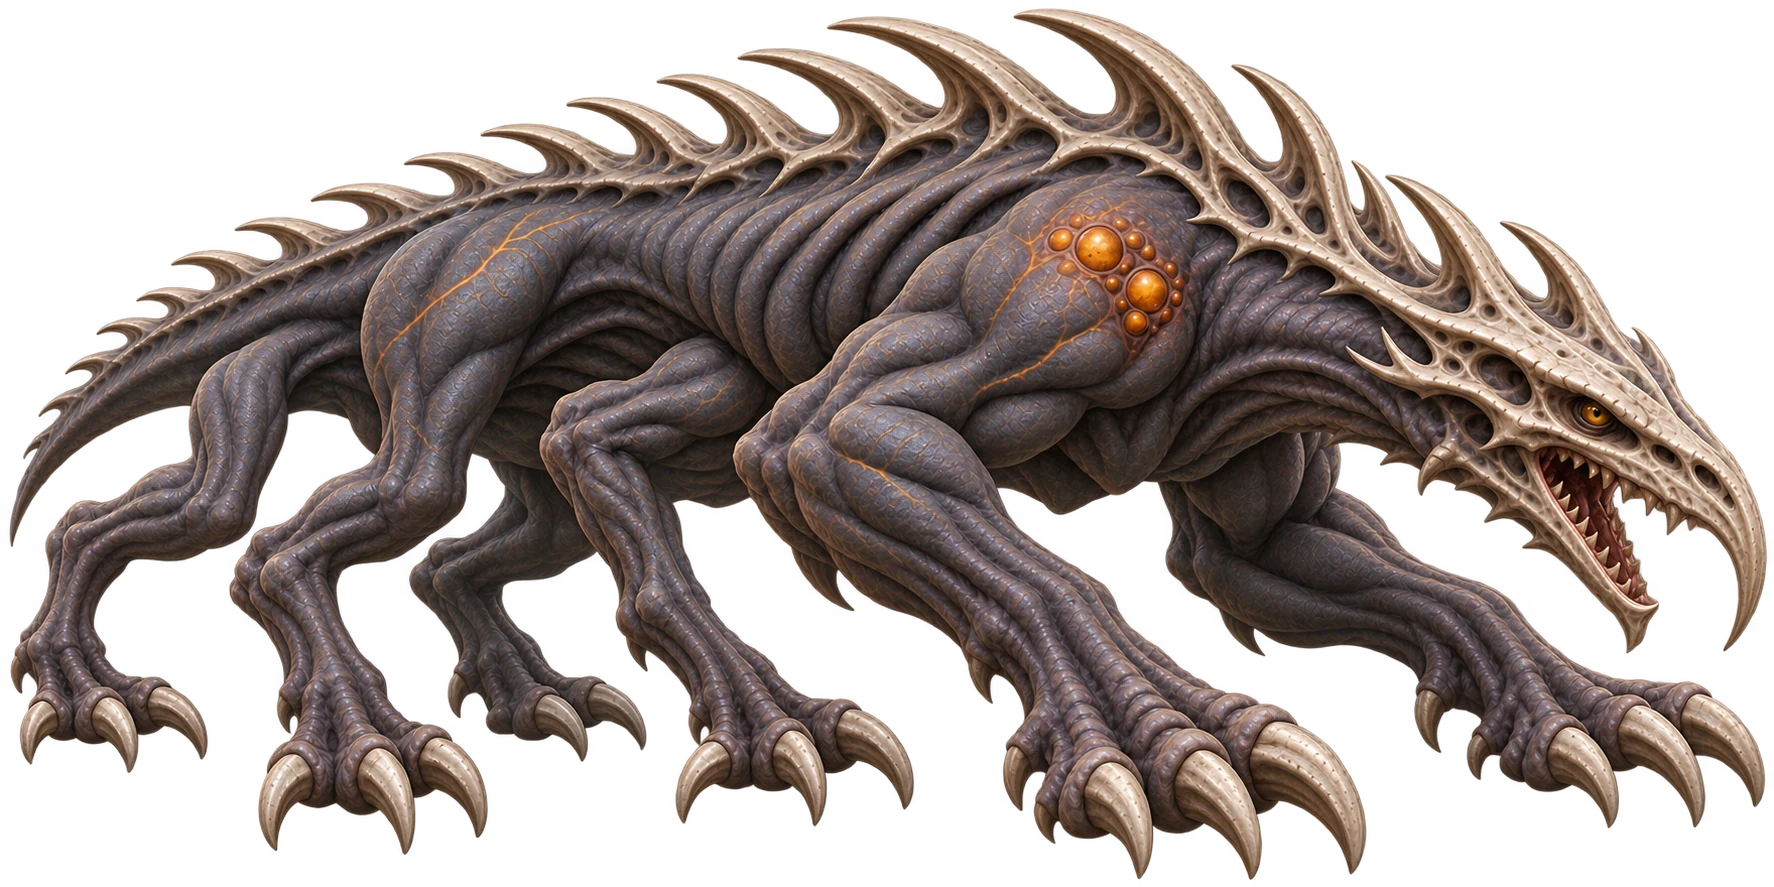
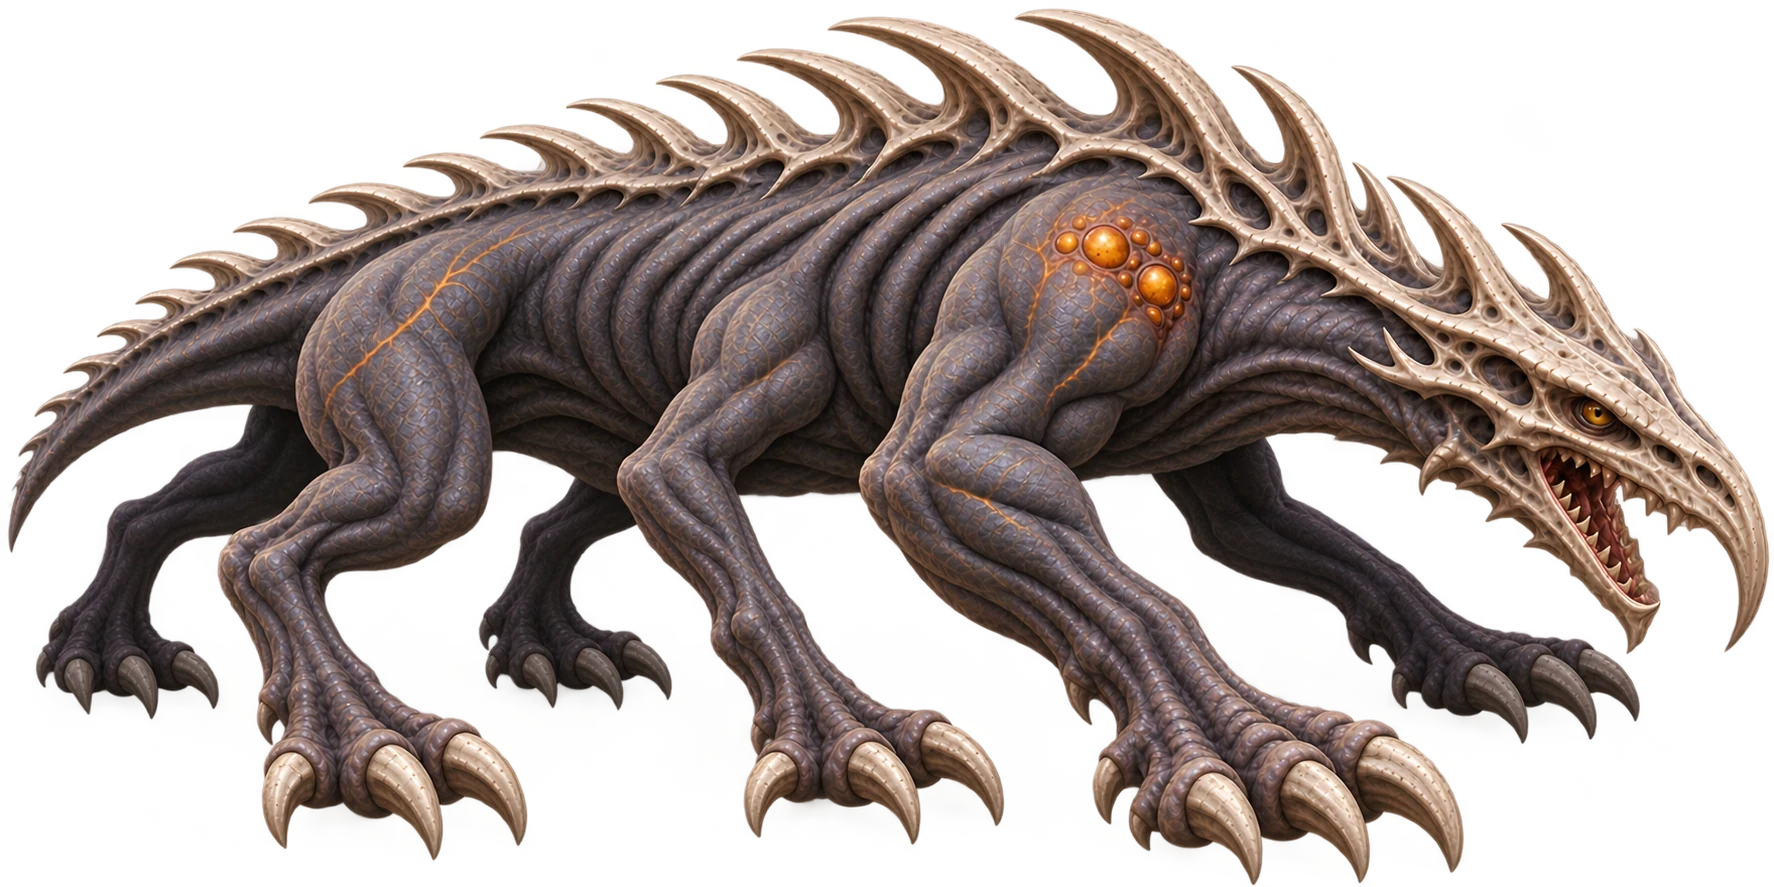
Correct the base Predator's six-legged stance

diff --git a/table/page-art.js b/table/page-art.js
@@ -261,10 +261,10 @@ export const PAGE_ART = {
     ],
   },
   'mutation-predator-base': {
-    from: '2cea23fe18a4eaf1', frames: 1, drawn: [144], pages: {"table/stats":"lazy"},
+    from: '9615b96f064f34ac', frames: 1, drawn: [144], pages: {"table/stats":"lazy"},
     sizes: [
-      { file: 'mutation-predator-base-144.12105221.webp', width: 144, height: 72, bytes: 8500 },
-      { file: 'mutation-predator-base-288.bb90d269.webp', width: 288, height: 144, bytes: 22408 },
+      { file: 'mutation-predator-base-144.f8781775.webp', width: 144, height: 72, bytes: 8552 },
+      { file: 'mutation-predator-base-288.d5862369.webp', width: 288, height: 144, bytes: 23376 },
     ],
   },
   'mutation-predator-stage2-blighted': {

diff --git a/table/battle-evolution-art.js b/table/battle-evolution-art.js
@@ -15,7 +15,7 @@ const entries = [
   // id, family, stage, [width, height], [left, top, right, bottom]
   ['base-creature', 'base', 0, [1536, 1024], [139, 47, 1368, 999]],
   ['brute-base', 'brute', 1, [1536, 1024], [74, 10, 1457, 987]],
-  ['predator-base', 'predator', 1, [1774, 887], [10, 9, 1767, 880]],
+  ['predator-base', 'predator', 1, [1774, 887], [9, 9, 1769, 885]],
   ['warped-base', 'warped', 1, [1536, 1024], [179, 22, 1372, 1002]],
   ['brute-stage2-oppressor', 'brute', 2, [1536, 1024], [24, 7, 1515, 1010]],
   ['brute-stage2-frenzied', 'brute', 2, [1536, 1024], [13, 8, 1531, 1022]],
